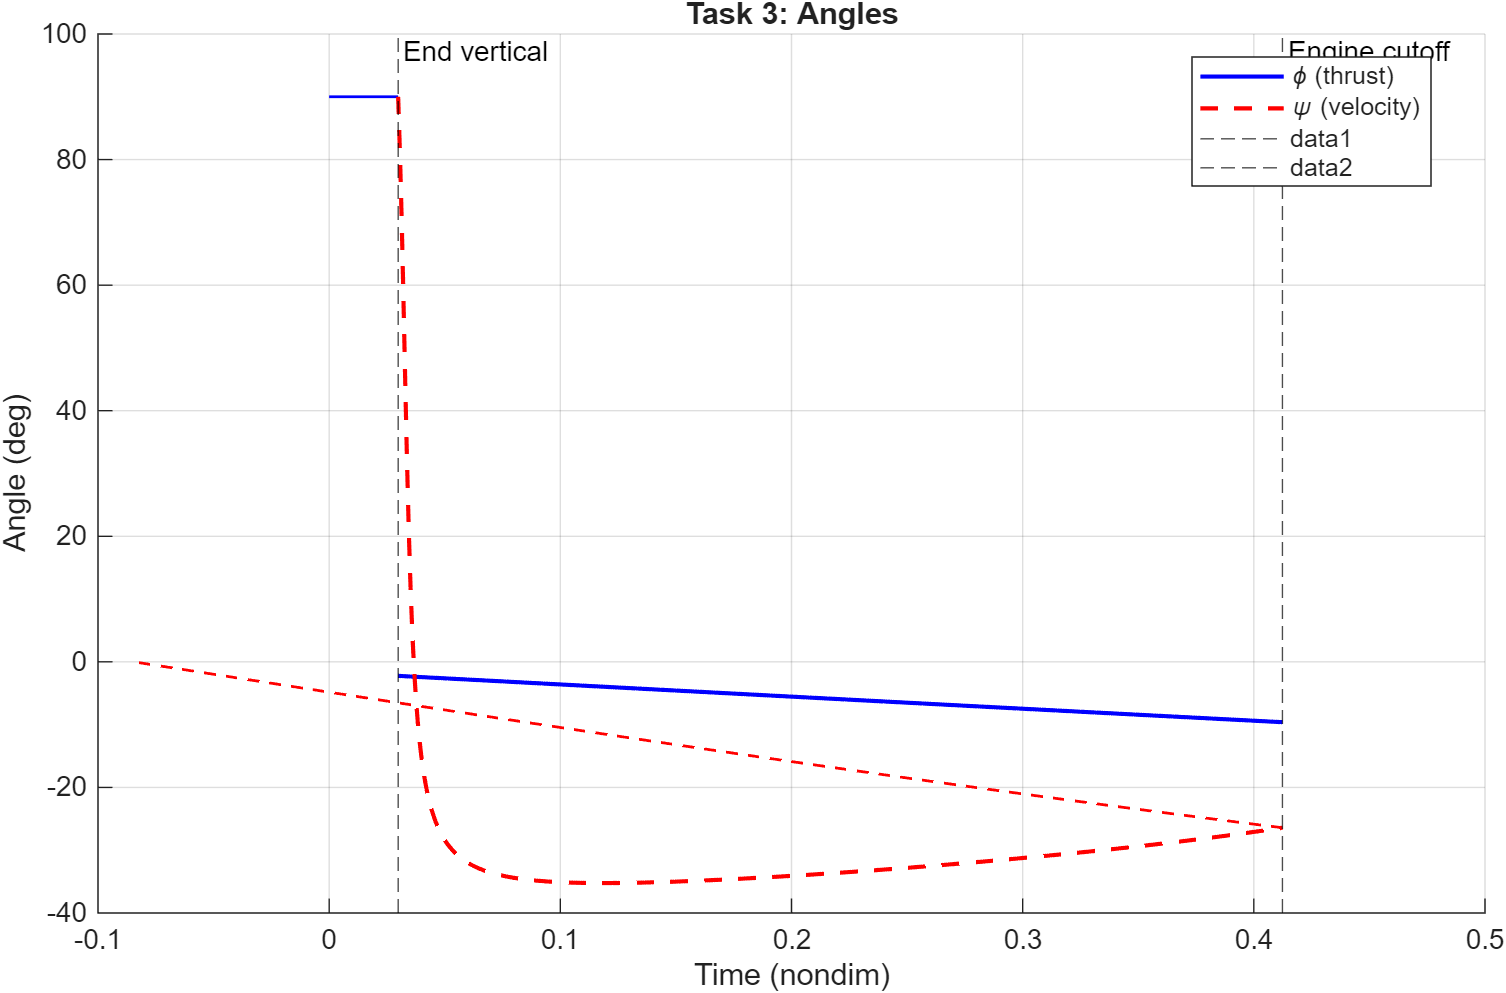
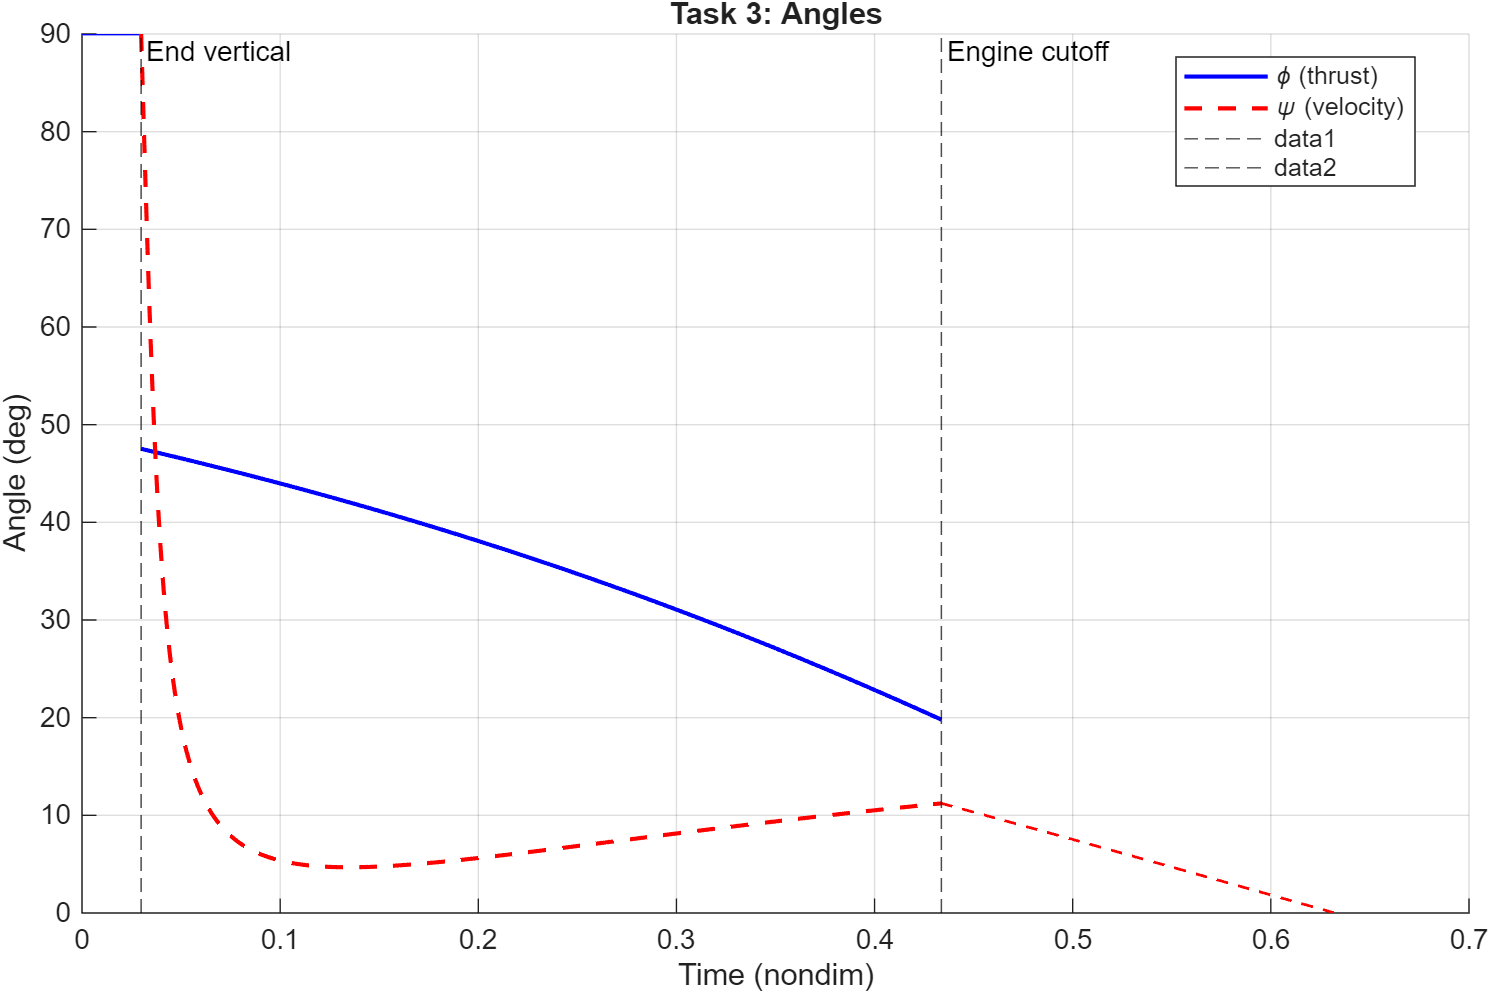
fix(HM1): Task 3 shooting converges to the physical coast root
The vertical+burn+coast BVP admits a spurious root with vyc<0 (yc+0.5*vyc^2=yf holds formally but there is no physical apogee). The previous initial guess (t_burn=0.28) landed in that basin, giving a negative coast time and mf<mf(Task2), contradicting the report. Use a short-burn guess sweep and accept only the physical vyc>0 root: coast=+0.199, mf=0.1326>mf(Task2)=0.112, all terminal targets met. The switching residual is kept in the 1/c form (S at lam_m=1): the literal lam_m/c form drives fsolve back to the spurious branch.

diff --git a/HM1/main_task3.m b/HM1/main_task3.m
@@ -50,22 +50,31 @@ p.vx0 = 0;
 p.vy0 = vy1;
 p.m0  = m1;
 
-% Initial guess - start from Task 2 solution if available, otherwise manual
-z_guess = [0.20; 1.2; 4.0; -0.5; 0.28];
+% Initial guess. The burn->coast switching admits a SPURIOUS root with vyc<0
+% (apogee already behind: yc + 0.5*vyc^2 = yf holds formally but the coast is
+% non-physical). A short-burn guess (t_burn ~ 0.10-0.18) lands in the basin of
+% the PHYSICAL root (vyc>0: engine cut below yf, ballistic ascent to apogee).
+% We sweep a few guesses and accept the first root with vyc>0.
+guess_list = {[0.20; 1.2; 4.0; -0.5; 0.15], ...
+              [0.25; 1.5; 5.0; -0.6; 0.18], ...
+              [0.15; 1.0; 3.0; -0.4; 0.10], ...
+              [0.20; 1.2; 4.0; -0.5; 0.12]};
 
-fprintf('\nSolving BVP for burn + coast...\n');
-[z_sol, fval, ef] = fsolve(@(z) shooting3(z, p, opts_ode), z_guess, opts_fs);
-
-if ef <= 0
-    fprintf('Trying alternative initial guesses...\n');
-    guesses = {[0.15; 1.0; 3.0; -0.3; 0.25], ...
-               [0.25; 1.5; 5.0; -0.7; 0.32], ...
-               [0.18; 1.1; 3.5; -0.4; 0.27]};
-    for gg = 1:length(guesses)
-        [z_sol, fval, ef] = fsolve(@(z) shooting3(z, p, opts_ode), guesses{gg}, opts_fs);
-        if ef > 0, break; end
+fprintf('\nSolving BVP for burn + coast (physical vyc>0 root)...\n');
+z_sol = []; ef = -1;
+for gg = 1:numel(guess_list)
+    [z_try, ~, ef_try] = fsolve(@(z) shooting3(z, p, opts_ode), guess_list{gg}, opts_fs);
+    if ef_try > 0
+        pp_chk = p;
+        pp_chk.lam_vx0 = z_try(1); pp_chk.lam_vy0 = z_try(2); pp_chk.lam_y = z_try(3);
+        [~, Zc] = ode45(@(t,z) ode_burn(t, z, pp_chk), [0 z_try(5)], ...
+                        [p.x0; p.y0; p.vx0; p.vy0; p.m0; z_try(4)], opts_ode);
+        if Zc(end,4) > 1e-6      % vyc > 0: accept the physical coast
+            z_sol = z_try; ef = ef_try; break;
+        end
     end
 end
+if isempty(z_sol), ef = -1; end
 
 if ef > 0
     pp = p;
@@ -245,9 +254,14 @@ function res = shooting3(z0, p, opts_ode)
     lam_vy_c   = lam_vy0 - lam_y * t_burn;
     lam_v_norm = sqrt(lam_vx0^2 + lam_vy_c^2);
 
-    % Switching function S = |lam_v|/m - lam_m/c (general form, Lez. 6).
-    % Condition 3 pins lam_mc = 1, so at cutoff this equals |lam_v|/mc - 1/c.
-    S = lam_v_norm / mc - lam_mc / p.c;
+    % Switching function (Lez. 6): S = |lam_v|/m - lam_m/c. Condition 3 pins
+    % lam_mc = 1 (lam_m constant along the coast), so at the cutoff this equals
+    % |lam_v|/mc - 1/c. The 1/c form (S evaluated at lam_m = 1) is kept here: it
+    % gives fsolve a tighter basin that lands on the physical (vyc > 0) root,
+    % whereas the literal lam_mc/c form lets it drift to the spurious vyc < 0
+    % branch. The report states the general lam_m/c form; the two coincide at
+    % cutoff.
+    S = lam_v_norm / mc - 1 / p.c;
 
     res = [vxc - 1;
            yc + 0.5 * vyc^2 - p.yf;